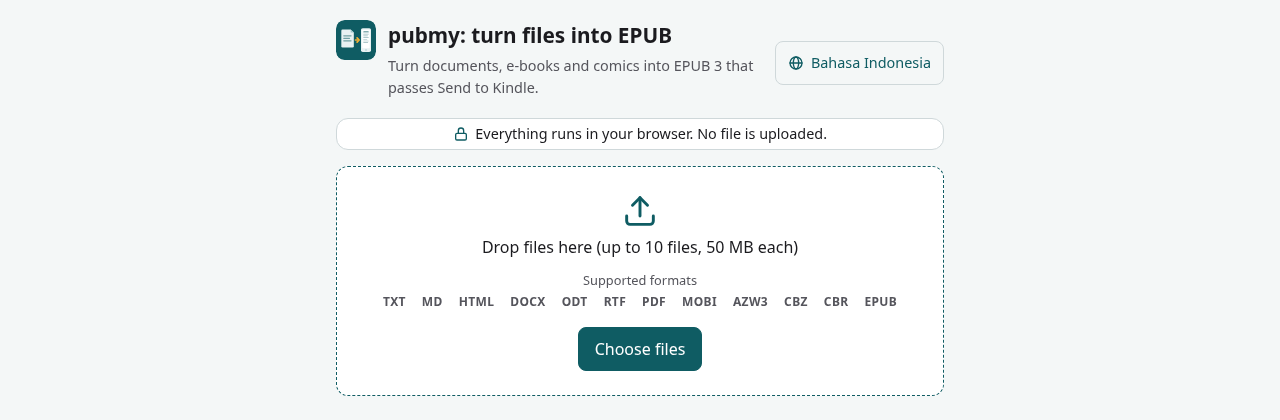
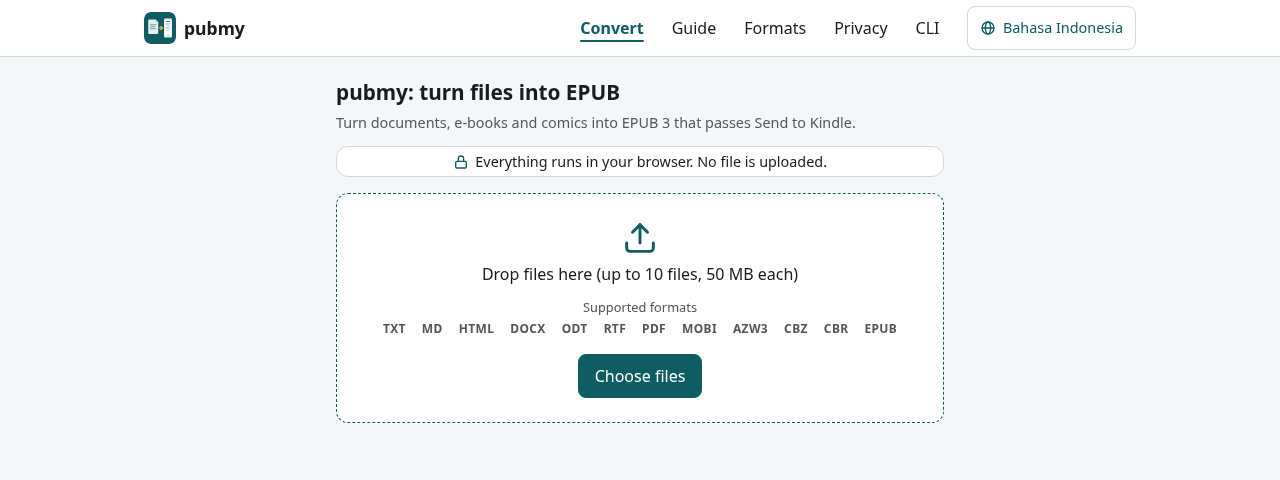
docs: README screenshot with the site header

diff --git a/docs/code-plan/plans/2026-11-16-pubmy-site-pages.md b/docs/code-plan/plans/2026-11-16-pubmy-site-pages.md
@@ -430,4 +430,6 @@ Note: the T2 content writers were dispatched in parallel with T1 because their f
 ## Closeout status
 
 - 2026-11-16: `bun scripts/plan-closeout.mjs --readiness docs/code-plan/plans/2026-11-16-pubmy-site-pages.md` → READY (T1-T5 and TV DONE, 0 open NOW follow-ups, 0 open step boxes). Owner chose "Mark Complete" at the Close plan gate; the readiness run after the follow-ups landed was still READY.
+- Graph index: `bun ~/vivera/scripts/graphify-sync.mjs --root "$(pwd)"` in the worktree exit 2 (no `graphify-out/graph.json` there; the repository's graph lives in the main checkout, which is gitignored). Due after PR #39 merges: `graphify update .` then the same sync in `~/Proyek/pubmy`.
+- T4 impact closed after the sweep: `assets/screenshot.png` (README) replaced with the new converter page, 1280 x 480, English, headless Chromium 156; `readme-web.test.ts` and `pack-skill.test.ts` exit 0. Phone menu open and the desktop converter after F1 checked by screenshot.
 - `bun scripts/plan-cost.mjs --plan 2026-11-16-pubmy-site-pages` → usd 26.7243 (estimate; 1 main transcript, 10 subagent runs; caveats as printed by the script).
